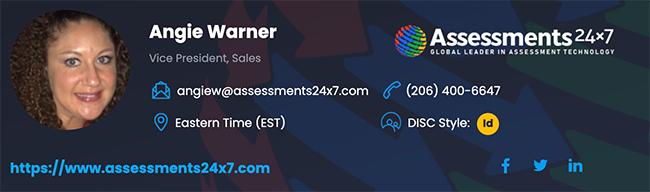
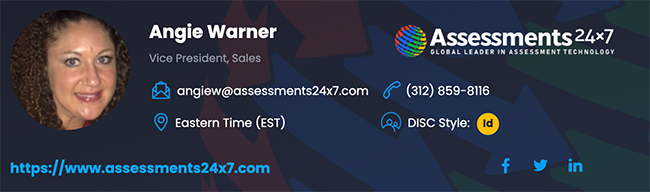
Updates

Changed region(s): [[0.6154, 0.4375, 0.7692, 0.5]]

diff --git a/pages/resources/motivators-training-library.vue b/pages/resources/motivators-training-library.vue
@@ -132,7 +132,7 @@
                                             <li>Review the <a href="https://cdn.assessments24x7.com/file/assessments24x7-media/trainer-materials/motivators/AgreementsConflictsCombinations.pdf" target="_blank" rel="noopener" class="hyperlink">Agreements, Conflicts and Interesting Combinations Document</a></li>
                                             <li>Review the <a href="https://cdn.assessments24x7.com/file/assessments24x7-media/trainer-materials/motivators/Word%20Matrix%20Scoring%20Information_Mot.pptx" target="_blank" rel="noopener" class="hyperlink">Word Matrix Ranges PowerPoint</a></li>
                                             <li>Review the <a href="https://cdn.assessments24x7.com/file/assessments24x7-media/trainer-materials/motivators/Ranges_Standard%20Deviations%20Scores%20-%20HireSenseMot.pptx" target="_blank" rel="noopener" class="hyperlink">Standard Deviations PowerPoint</a></li>
-                                            <li>Watch the <a href="https://vimeo.com/gebbs/review/158568674/004c333f50" target="_blank" rel="noopener" class="hyperlink">Motivators Video Lesson</a> <span class="time-badge">1 hour</span> (Optional)</li>
+                                            <li>Watch the <a href="https://www.youtube.com/watch?v=Lo8-ZcEIrZM" target="_blank" rel="noopener" class="hyperlink">Motivators Video Lesson</a> <span class="time-badge">1 hour</span> (Optional)</li>
                                         </ul>
                                     </div>
                                 </div>

diff --git a/static/email-signatures/new/angiew.html b/static/email-signatures/new/angiew.html
@@ -136,7 +136,7 @@
                                                                     <tr>
                                                                         <td width="25" height="30" valign="top"><img src="https://www.assessments24x7.com/email-signatures/images/icon_blue_phone.png" alt="Phone" border="0" width="22" style="display:block; border:0; outline:none;"/></td>
                                                                         <!-- Edit your Phone number -->
-                                                                        <td width="" height="30" valign="top" align="left" style="font-family:'Poppins', sans-serif, Arial; font-size:12px; line-height:24px; font-weight:400; color:#ffffff;">(206) 400-6647</td>
+                                                                        <td width="" height="30" valign="top" align="left" style="font-family:'Poppins', sans-serif, Arial; font-size:12px; line-height:24px; font-weight:400; color:#ffffff;">(312) 859-8116</td>
                                                                     </tr>
                                                                 </tbody>
                                                             </table>
